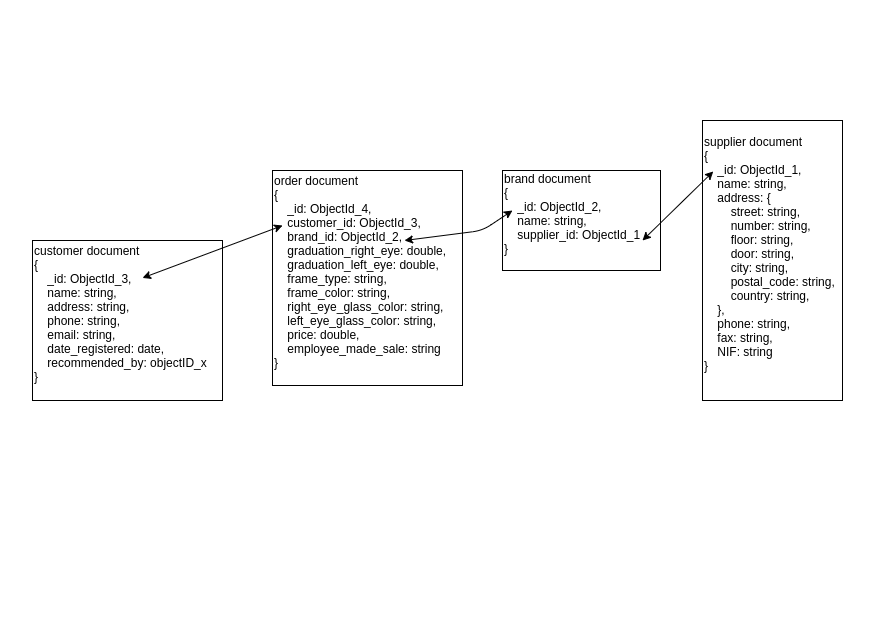
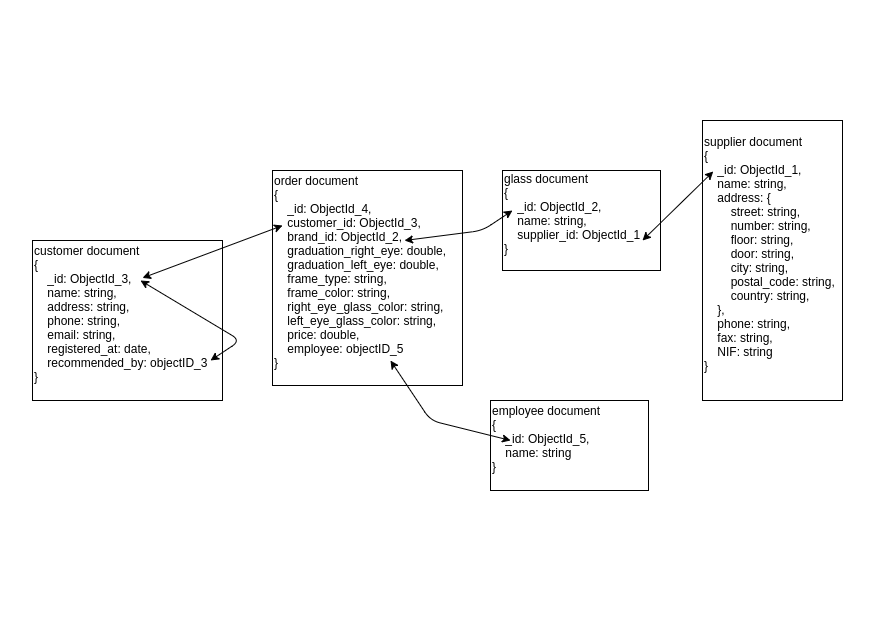
Fix some errors

diff --git a/SPRINT2/Estructura_de_dades-MongoDB/N1E1/optica_data.js b/SPRINT2/Estructura_de_dades-MongoDB/N1E1/optica_data.js
@@ -2,9 +2,10 @@ db = db.getSiblingDB('optica');
 db.dropDatabase();
 
 db.createCollection('suppliers');
-db.createCollection('brands');
+db.createCollection('glasses');
 db.createCollection('customers');
 db.createCollection('orders');
+db.createCollection('employees');
 
 db.suppliers.insertOne( {
     name: 'Supplier1',
@@ -39,27 +40,27 @@ db.suppliers.insertOne( {
 } );
 
 
-db.brands.insertOne( {
+db.glasses.insertOne( {
     name: 'Ray-Ban',
     supplier_id: db.suppliers.findOne({name: 'Supplier2'})._id
 } );
 
-db.brands.insertOne( {
+db.glasses.insertOne( {
     name: 'Carrera',
     supplier_id: db.suppliers.findOne({name: 'Supplier1'})._id
 } );
 
-db.brands.insertOne( {
+db.glasses.insertOne( {
     name: 'Tous',
     supplier_id: db.suppliers.findOne({name: 'Supplier1'})._id
 } );
 
-db.brands.insertOne( {
+db.glasses.insertOne( {
     name: 'Arnette',
     supplier_id: db.suppliers.findOne({name: 'Supplier2'})._id
 } );
 
-db.brands.insertOne( {
+db.glasses.insertOne( {
     name: 'Oakley',
     supplier_id: db.suppliers.findOne({name: 'Supplier1'})._id
 } );
@@ -70,8 +71,8 @@ db.customers.insertOne( {
     address: 'Palo Alto, 204 CA',
     phone: '464688620',
     email: 'jhon666@gmail.com',
-    date_registered: '2019/12/5',
-    recommended_by: 0
+    registered_at: new Date(2019, 12, 5),
+    recommended_by: null
 } );
 
 db.customers.insertOne( {
@@ -79,14 +80,23 @@ db.customers.insertOne( {
     address: 'Boulevard Rose, 8204 MN',
     phone: '685390231',
     email: 'peterkile@outlook.com',
-    date_registered: '2020/01/7',
+    registered_at: new Date(2020, 1, 7),
     recommended_by: db.customers.findOne({name: 'Customer1'})._id
+} );
+
+
+db.employees.insertOne( {
+    name: 'Employee_1_name',
+} );
+
+db.employees.insertOne( {
+    name: 'Employee_2_name',
 } );
 
 
 db.orders.insertOne( {
     customer_id: db.customers.findOne({name: 'Customer1'})._id,
-    brand_id: db.brands.findOne({name: 'Oakley'})._id,
+    brand_id: db.glasses.findOne({name: 'Oakley'})._id,
     graduation_right_eye: 2.75,
     graduation_left_eye: 2.5,
     frame_type: 'rimless',
@@ -94,12 +104,12 @@ db.orders.insertOne( {
     right_eye_glass_color: 'yellow-green',
     left_eye_glass_color: 'yellow-green',
     price: 149.99,
-    employee_made_sale: 'Mary'
+    employee: db.employees.findOne({name: 'Employee_1_name'})._id
 } );
 
 db.orders.insertOne( {
     customer_id: db.customers.findOne({name: 'Customer2'})._id,
-    brand_id: db.brands.findOne({name: 'Arnette'})._id,
+    brand_id: db.glasses.findOne({name: 'Arnette'})._id,
     graduation_right_eye: 0.5,
     graduation_left_eye: 1,
     frame_type: 'plastic',
@@ -107,7 +117,7 @@ db.orders.insertOne( {
     right_eye_glass_color: 'black',
     left_eye_glass_color: 'black',
     price: 69.99,
-    employee_made_sale: 'Anne'
+    employee: db.employees.findOne({name: 'Employee_2_name'})._id
 } );
 
 
